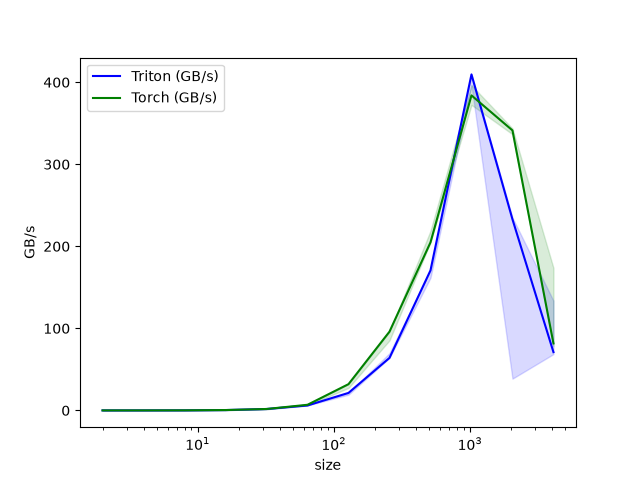
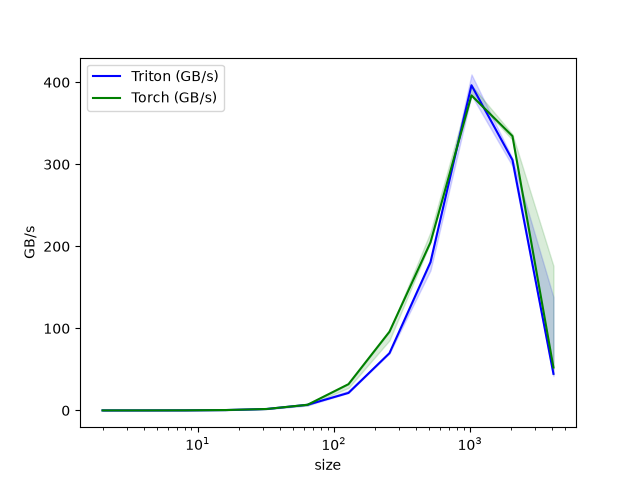
Show autotuned matmul curve in README

diff --git a/README.md b/README.md
@@ -53,12 +53,13 @@ sizes isn't the one that tracks best at the largest matrices:
 |:---:|:---:|
 | ![matmul config A](docs/matmul-blocks-a.png) | ![matmul config B](docs/matmul-blocks-b.png) |
 
-The current kernel config (64×128 tile, `BLOCK_SIZE_K=64`, `GROUP_SIZE_M=1`,
-`num_stages=3`, `num_warps=8`) tracks cuBLAS closely across the whole range and
-peaks slightly *above* it around 1024 — the smaller tile keeps enough program
-instances in flight to fill the SMs at mid sizes:
+The kernel now uses `@triton.autotune`, which benchmarks a set of block-size /
+`num_stages` / `num_warps` configs per problem shape and caches the fastest. That
+lets it pick the smaller tiles at mid sizes (enough program instances to fill the
+SMs) and the larger tiles at big sizes (more data reuse) automatically. The result
+tracks cuBLAS across the whole range and edges *above* it around 1024:
 
-![matmul current config](docs/matmul-blocks-c.png)
+![autotuned matmul](docs/matmul-blocks-c.png)
 
 ## Layout
 
